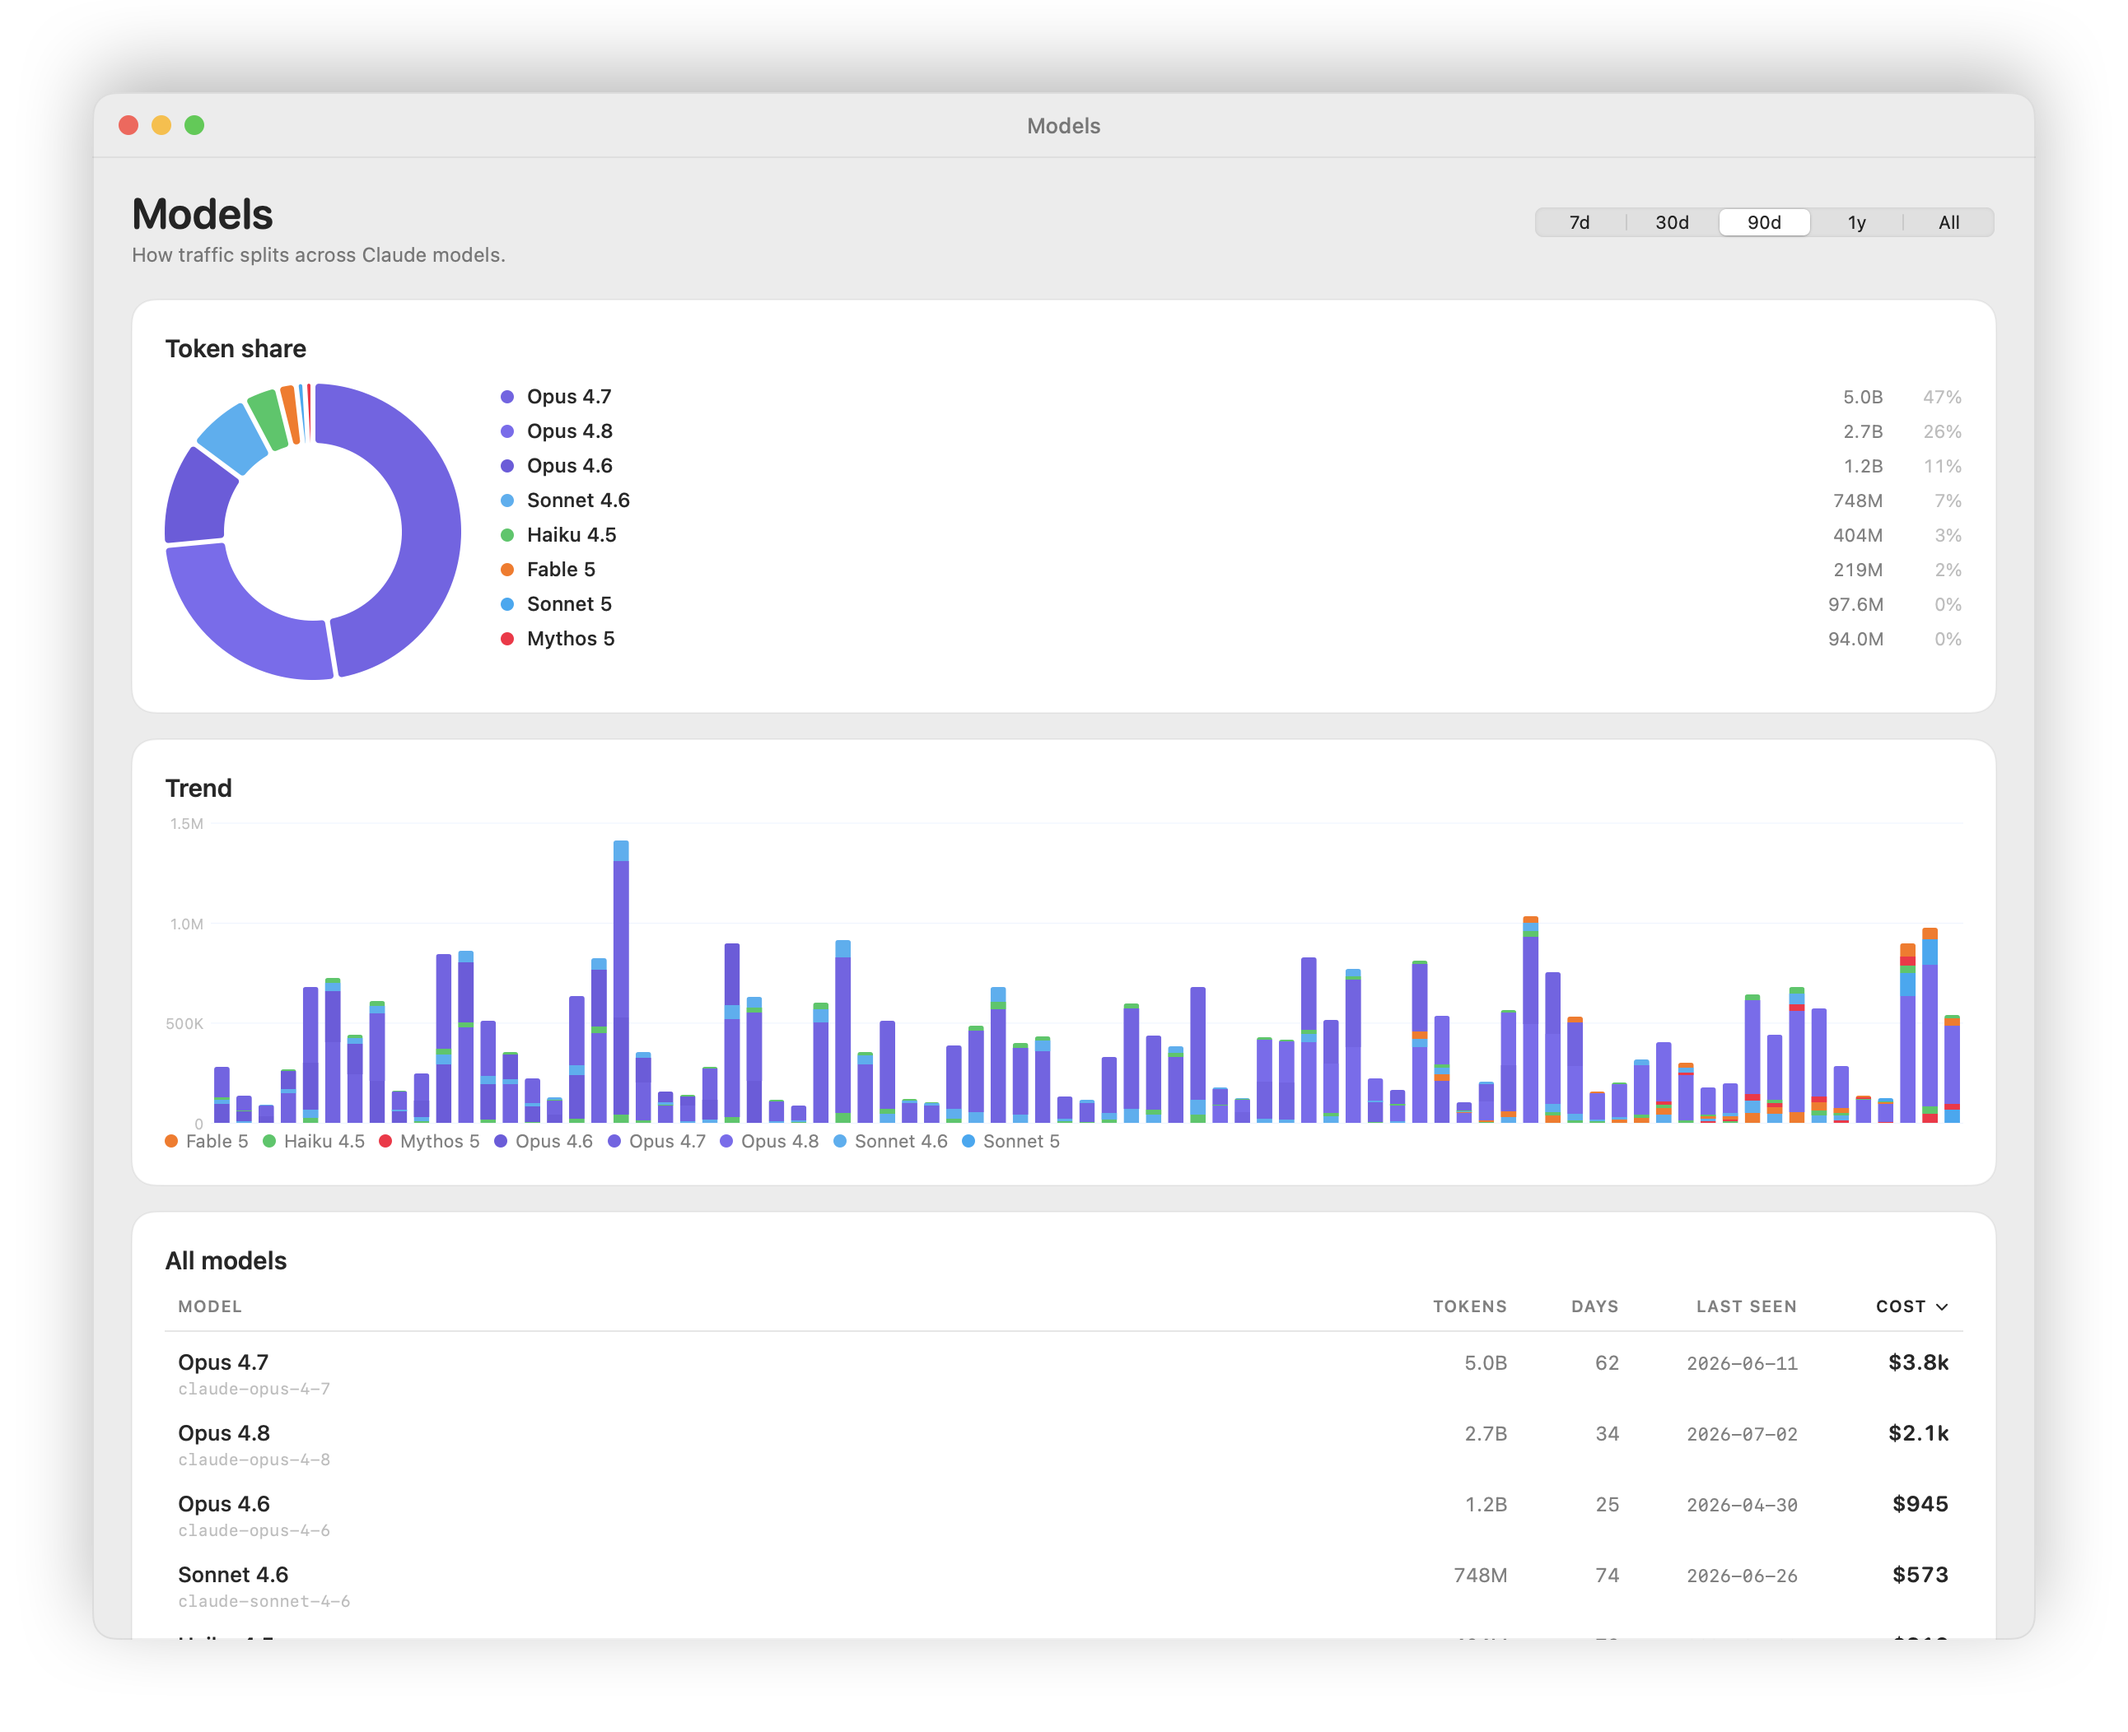
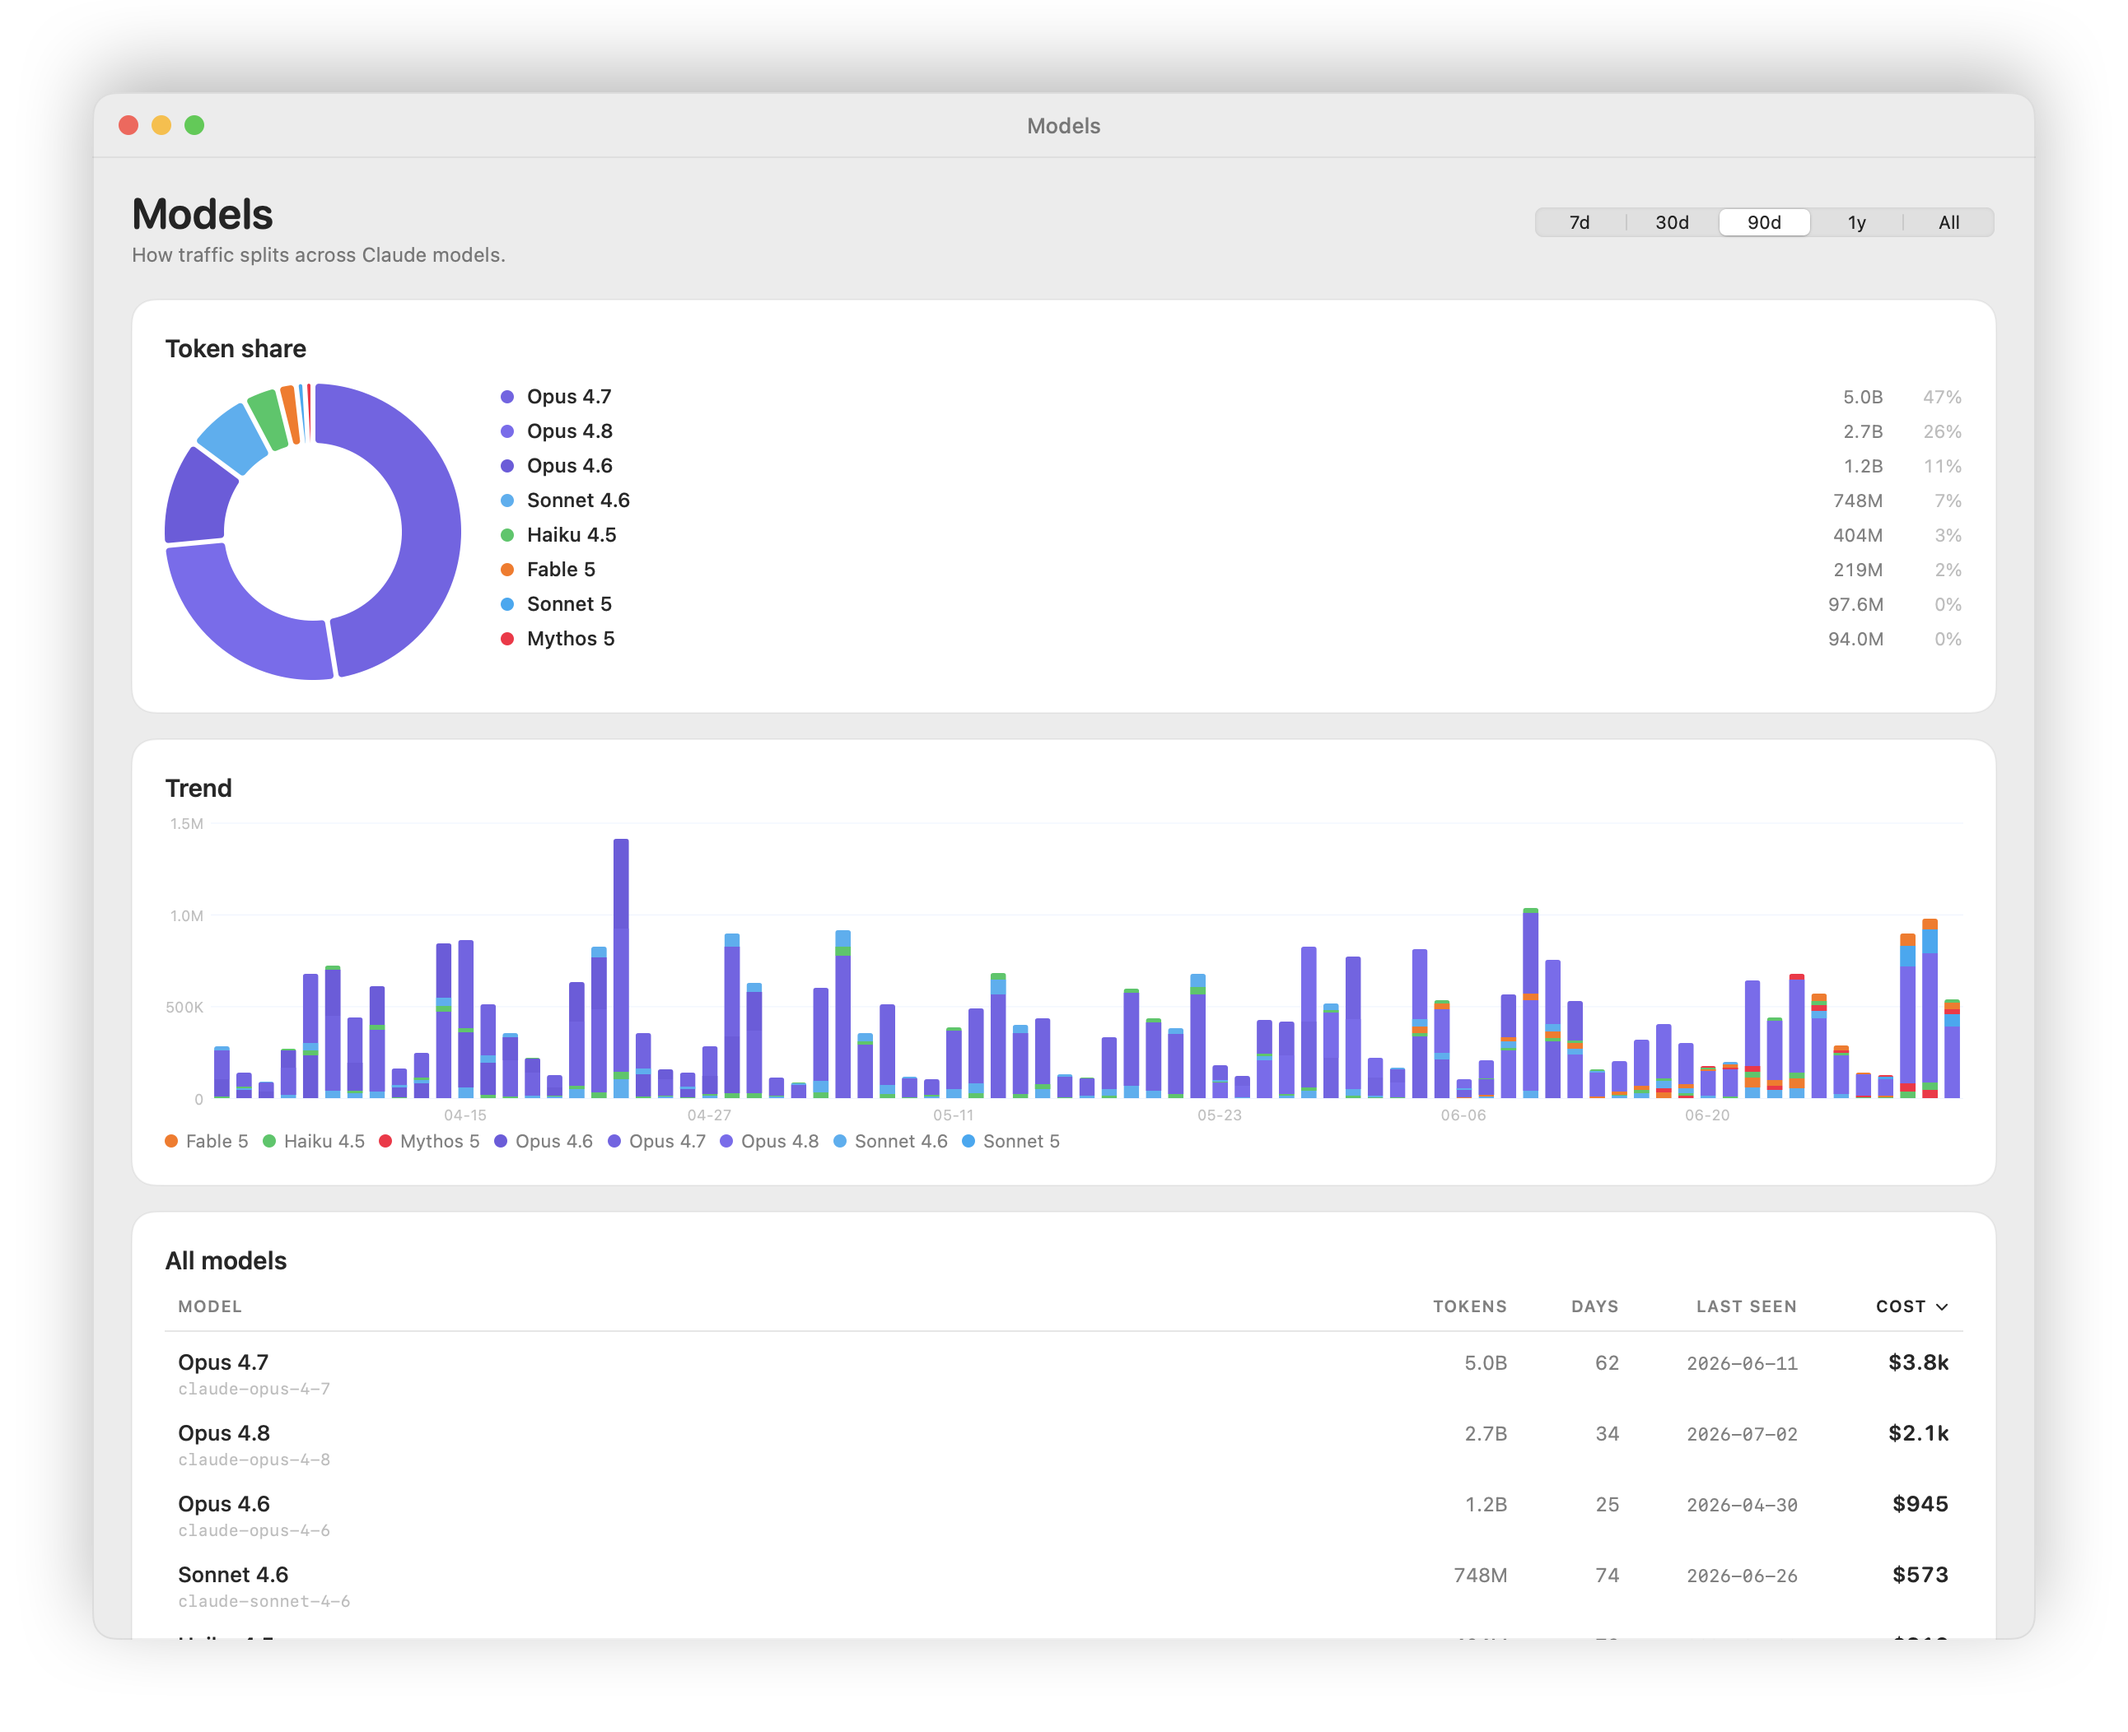
fix(ui): shared band-date axis — fix 30-day label clip, add Models trend axis
Both the dashboard "Last 30 days" chart and the Models "Trend" chart plot
YYYY-MM-DD strings on a categorical band x-axis. A label centered under the
first or last band overflows the plot edge and clips (the newest on the
right, the oldest on the left) — which is why the 30-day chart clipped a
label. The trend chart dodged it only by having no x-axis at all.

Add PacerDateAxis / pacerDateAxis in PacerUI: picks evenly-spaced labels
strictly interior to the band range (never the two edge bands), and switches
from day labels (MM-DD) to month labels (Apr, or Apr 'yy across a year) once
the span passes ~14 weeks, so the trend reads cleanly at 7d through All.

- 30-day chart: replace the forced stride-from-0 (which clipped the oldest
  label and never labeled the newest) with the shared helper.
- Models trend: drop `.chartXAxis(.hidden)`, add the shared axis.
- Extract the duplicated shortDate/stride helpers into the one shared place.

6 unit tests.

Claude-Session: https://claude.ai/code/session_0158a8CUqzLBU5S2zaYkT6tX

Changed region(s): [[0.0929, 0.5252, 0.9288, 0.6488], [0.3406, 0.5561, 0.4025, 0.587], [0.6192, 0.5561, 0.6502, 0.587]]

diff --git a/PacerCore/Sources/PacerUI/DateAxis.swift b/PacerCore/Sources/PacerUI/DateAxis.swift
@@ -1,0 +1,113 @@
+import Foundation
+
+/// Picks a small, evenly-spaced, **right-anchored** set of labels for a
+/// categorical (band) date axis whose x-values are `YYYY-MM-DD` strings —
+/// the shape every band date chart in the app uses (the 30-day dashboard
+/// chart, the Models trend). Two problems it solves once, instead of each
+/// chart re-rolling its own stride:
+///
+///   1. **Edge clipping.** A label forced onto the leftmost band centers
+///      under a bar whose center sits only half a band-width from the
+///      plot's leading edge, so it overflows and clips. Anchoring the
+///      stride at the *newest* date (and dropping a surviving index 0)
+///      keeps the first label off that edge and guarantees the newest bar
+///      — the one the user cares about most — is always labeled.
+///   2. **Varying span.** Ranges run from a week to a year or more.
+///      Individual-day labels read well for short spans but crowd past a
+///      couple of months, so beyond `dayThreshold` days we switch to one
+///      label per month (marking the first present day of each month).
+///
+/// Returns the exact x-values to mark plus a `label(_:)` for each, so a
+/// caller's axis stays a couple of lines:
+/// ```
+/// let axis = pacerDateAxis(dates)
+/// .chartXAxis { AxisMarks(values: axis.values) { v in
+///     AxisValueLabel { Text(axis.label(v.as(String.self) ?? "")) } } }
+/// ```
+public struct PacerDateAxis {
+    /// The `YYYY-MM-DD` x-values to place a mark at (a subset of the input).
+    public let values: [String]
+    private let monthly: Bool
+    private let straddlesYear: Bool
+
+    init(values: [String], monthly: Bool, straddlesYear: Bool) {
+        self.values = values
+        self.monthly = monthly
+        self.straddlesYear = straddlesYear
+    }
+
+    /// Display text for a marked value: `MM-DD` at day granularity, month
+    /// name (`Apr`, or `Apr ’26` when the span crosses a year) at month
+    /// granularity. Falls back to the raw value if it isn't a date.
+    public func label(_ value: String) -> String {
+        monthly ? Self.monthLabel(value, withYear: straddlesYear)
+                : Self.dayLabel(value)
+    }
+
+    private static let monthNames = ["Jan", "Feb", "Mar", "Apr", "May", "Jun",
+                                     "Jul", "Aug", "Sep", "Oct", "Nov", "Dec"]
+
+    /// `2026-04-30` → `04-30`. Year is dropped at this density; the user
+    /// knows their own recent context.
+    static func dayLabel(_ ymd: String) -> String {
+        guard ymd.count == 10 else { return ymd }
+        return String(ymd.suffix(5))
+    }
+
+    /// `2026-04-30` → `Apr` (or `Apr ’26` across a year boundary).
+    static func monthLabel(_ ymd: String, withYear: Bool) -> String {
+        guard ymd.count >= 7,
+              let year = Int(ymd.prefix(4)),
+              let month = Int(ymd.dropFirst(5).prefix(2)),
+              month >= 1, month <= 12
+        else { return ymd }
+        let name = monthNames[month - 1]
+        return withYear ? "\(name) ’\(String(format: "%02d", year % 100))" : name
+    }
+}
+
+/// Build a right-anchored, span-aware axis for a set of `YYYY-MM-DD` dates.
+/// `target` is the rough number of day-labels to aim for on short spans.
+/// `dayThreshold` is the day count above which the axis flips to monthly
+/// labels (default ~14 weeks, so the 90-day view still labels days).
+public func pacerDateAxis(_ dates: [String], target: Int = 6, dayThreshold: Int = 100) -> PacerDateAxis {
+    let sorted = Array(Set(dates)).sorted()
+    guard sorted.count > 1 else {
+        return PacerDateAxis(values: sorted, monthly: false, straddlesYear: false)
+    }
+    let straddlesYear = Set(sorted.map { $0.prefix(4) }).count > 1
+
+    if sorted.count <= dayThreshold {
+        let picks = interiorIndices(count: sorted.count, target: target).map { sorted[$0] }
+        return PacerDateAxis(values: picks, monthly: false, straddlesYear: straddlesYear)
+    }
+
+    // Month granularity: the first present day of each month. Drop any month
+    // marker that lands on the range's first or last band (those clip), then
+    // thin toward `target` if there are still too many.
+    var firstOfMonth: [String] = []
+    var lastMonth = ""
+    for d in sorted {
+        let m = String(d.prefix(7))
+        if m != lastMonth { firstOfMonth.append(d); lastMonth = m }
+    }
+    let interiorMonths = firstOfMonth.filter { $0 != sorted.first && $0 != sorted.last }
+    let values = interiorMonths.count <= target
+        ? interiorMonths
+        : interiorIndices(count: interiorMonths.count, target: target).map { interiorMonths[$0] }
+    return PacerDateAxis(values: values, monthly: true, straddlesYear: straddlesYear)
+}
+
+/// Up to `target` evenly-spaced indices strictly INTERIOR to `0..<count`
+/// (never the two edge bands, whose centered labels overflow the plot edge
+/// and clip). Ascending, deduped.
+private func interiorIndices(count n: Int, target: Int) -> [Int] {
+    guard n > 2, target > 0 else { return [] }
+    let k = max(1, min(target, n - 2))
+    var picks = Set<Int>()
+    for j in 1...k {
+        let idx = Int((Double(j) * Double(n - 1) / Double(k + 1)).rounded())
+        picks.insert(min(max(idx, 1), n - 2))
+    }
+    return picks.sorted()
+}

diff --git a/PacerCore/Tests/PacerCoreTests/DateAxisTests.swift b/PacerCore/Tests/PacerCoreTests/DateAxisTests.swift
@@ -1,0 +1,65 @@
+import Foundation
+import Testing
+import PacerUI
+
+/// Tests for the shared band-date-axis label picker: right-anchored so the
+/// newest date is always labeled and the clipping leftmost index is dropped,
+/// and span-aware so long ranges switch from day to month labels.
+struct DateAxisTests {
+
+    /// `count` consecutive `YYYY-MM-DD` dates ending at `endingYMD`.
+    private func consecutiveDates(_ count: Int, endingYMD: String) -> [String] {
+        let df = DateFormatter()
+        df.dateFormat = "yyyy-MM-dd"
+        df.timeZone = TimeZone(identifier: "UTC")
+        df.calendar = Calendar(identifier: .gregorian)
+        guard let end = df.date(from: endingYMD) else { return [] }
+        var cal = Calendar(identifier: .gregorian)
+        cal.timeZone = TimeZone(identifier: "UTC")!
+        var out: [String] = []
+        for i in stride(from: count - 1, through: 0, by: -1) {
+            if let d = cal.date(byAdding: .day, value: -i, to: end) { out.append(df.string(from: d)) }
+        }
+        return out
+    }
+
+    @Test func bothEdgeBandsAreDropped() {
+        let axis = pacerDateAxis(consecutiveDates(30, endingYMD: "2026-06-30"))
+        // Neither extreme band is labeled — those are the ones that clip
+        // (newest on the right, oldest on the left).
+        #expect(!axis.values.contains("2026-06-30"))
+        #expect(!axis.values.contains("2026-06-01"))
+        #expect(axis.values.count >= 4 && axis.values.count <= 8)
+    }
+
+    @Test func dayLabelsDropTheYear() {
+        let axis = pacerDateAxis(consecutiveDates(30, endingYMD: "2026-06-30"))
+        #expect(axis.label("2026-06-30") == "06-30")
+    }
+
+    @Test func longSpansSwitchToMonthLabels() {
+        let axis = pacerDateAxis(consecutiveDates(150, endingYMD: "2026-06-30"))
+        // Newest month is June; its mark is June's first present day.
+        #expect(axis.label(axis.values.last!) == "Jun")
+        // No day-form labels leak through at month granularity.
+        #expect(!axis.values.contains { axis.label($0).contains("-") })
+    }
+
+    @Test func monthLabelsGainYearAcrossABoundary() {
+        // Dec 2025 → Feb 2026 spans a year, so month labels carry the year.
+        let axis = pacerDateAxis(consecutiveDates(150, endingYMD: "2026-02-28"))
+        #expect(axis.values.contains { axis.label($0).contains("’") })
+    }
+
+    @Test func degenerateInputs() {
+        #expect(pacerDateAxis([]).values.isEmpty)
+        #expect(pacerDateAxis(["2026-06-30"]).values == ["2026-06-30"])
+    }
+
+    @Test func shortSpanStillGetsSeveralInteriorLabels() {
+        let axis = pacerDateAxis(consecutiveDates(7, endingYMD: "2026-06-30"))
+        #expect(axis.values.count >= 4)                    // not decimated to 1–2
+        #expect(!axis.values.contains("2026-06-30"))       // still no edge bands
+        #expect(!axis.values.contains("2026-06-24"))
+    }
+}

diff --git a/App/Views/DailyCostChartCard.swift b/App/Views/DailyCostChartCard.swift
@@ -123,7 +123,8 @@ struct DailyCostChartCard: View {
     }
 
     private func chart(annotateDates: Set<String>, totals: [DailyTotal]) -> some View {
-        Chart {
+        let dateAxis = pacerDateAxis(totals.map(\.date))
+        return Chart {
             ForEach(totals) { d in
                 BarMark(
                     x: .value("Date", d.date),
@@ -159,10 +160,10 @@ struct DailyCostChartCard: View {
             }
         }
         .chartXAxis {
-            AxisMarks(values: stridedDates(every: 5, totals: totals)) { value in
+            AxisMarks(values: dateAxis.values) { value in
                 AxisValueLabel {
                     if let date = value.as(String.self) {
-                        Text(shortDate(date))
+                        Text(dateAxis.label(date))
                             .font(.system(size: 9))
                             .foregroundStyle(.secondary)
                     }
@@ -202,21 +203,8 @@ struct DailyCostChartCard: View {
         .accessibilityHint(onDayTap != nil ? "Click a bar to drill into that day" : "")
     }
 
-    private func stridedDates(every n: Int, totals: [DailyTotal]) -> [String] {
-        guard !totals.isEmpty else { return [] }
-        return stride(from: 0, to: totals.count, by: n)
-            .map { totals[$0].date }
-    }
-
     private func barColor(for cost: Double) -> Color {
         cost > 0 ? .accentColor : .accentColor.opacity(0.3)
-    }
-
-    /// `2026-04-30` → `04-30`. Year out of axis labels at this density
-    /// since the user knows their context.
-    private func shortDate(_ ymd: String) -> String {
-        guard ymd.count == 10 else { return ymd }
-        return String(ymd.suffix(5))
     }
 }
 

diff --git a/App/Views/ModelsView.swift b/App/Views/ModelsView.swift
@@ -437,7 +437,8 @@ private struct ModelsContent: View {
     }
 
     private var trendCard: some View {
-        PacerCard("Trend", trailing: {
+        let trendAxis = pacerDateAxis(dailyMix.map(\.date))
+        return PacerCard("Trend", trailing: {
             // Hover swaps the trailing slot for the date + total tokens.
             // Detail per-model breakdown shows below the chart on hover
             // — same overlay-text pattern keeps the chart geometry
@@ -488,7 +489,17 @@ private struct ModelsContent: View {
                         }
                     }
                 }
-                .chartXAxis(.hidden)
+                .chartXAxis {
+                    AxisMarks(values: trendAxis.values) { value in
+                        AxisValueLabel {
+                            if let date = value.as(String.self) {
+                                Text(trendAxis.label(date))
+                                    .font(.system(size: 9))
+                                    .foregroundStyle(.secondary)
+                            }
+                        }
+                    }
+                }
                 .chartXSelection(value: $rawTrendHoverDate)
                 .onChange(of: rawTrendHoverDate) { _, newValue in
                     trendHoverDebounce?.cancel()
